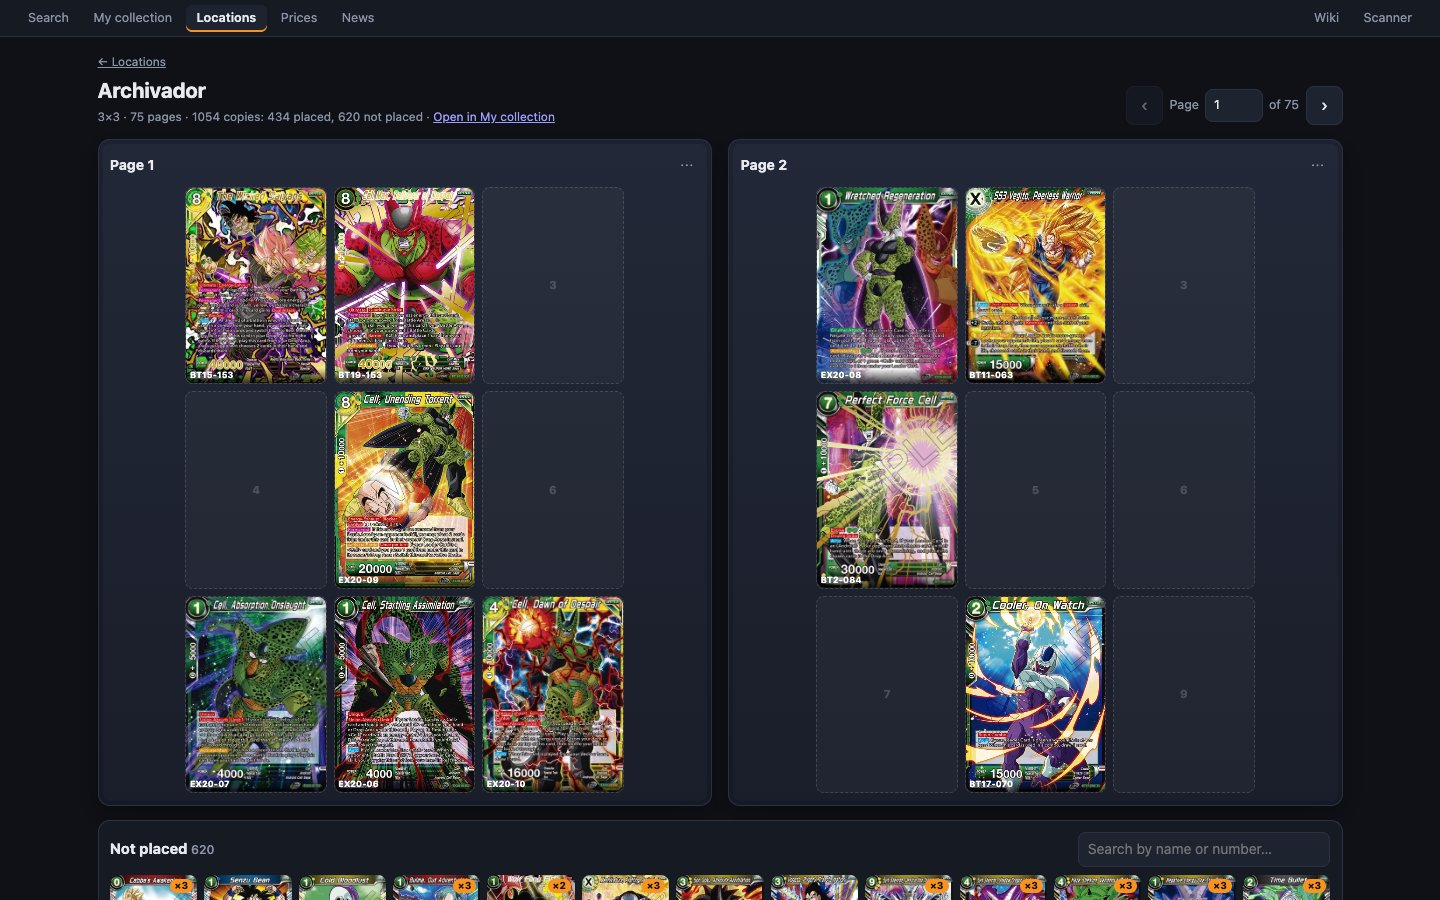
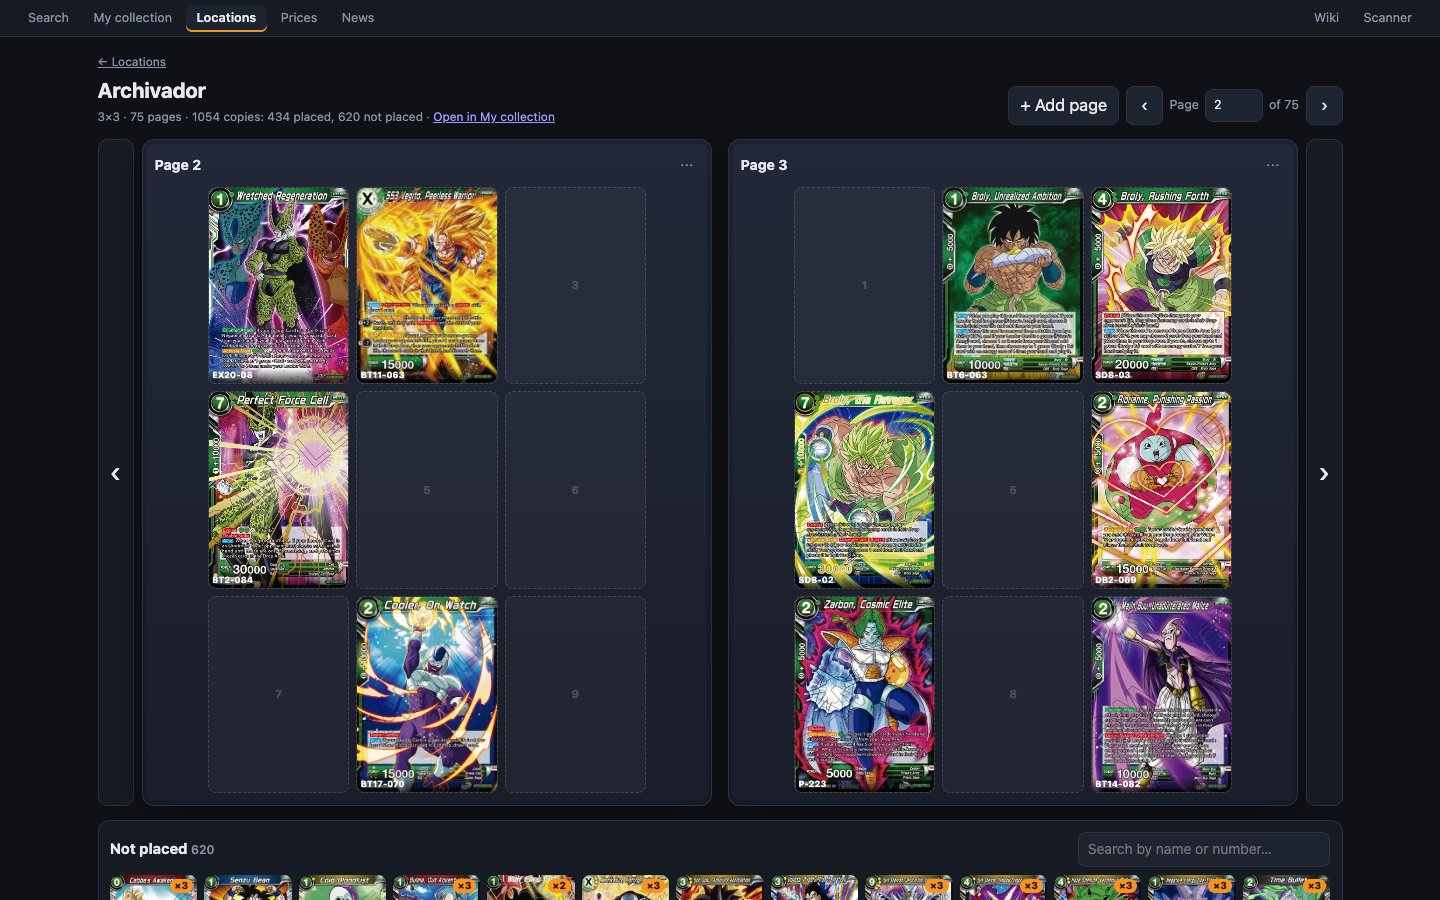
Vista de archivador: como un libro, flechas a los lados y «+ Add page»
En el ordenador la página 1 sale sola a la derecha (interior de la tapa a la
izquierda) y luego 2-3, 4-5…; flechas grandes a los lados para pasar páginas; y
«+ Add page» para meter una página vacía delante o detrás de la que elijas.

diff --git a/frontend/src/BinderPage.tsx b/frontend/src/BinderPage.tsx
@@ -68,10 +68,16 @@ export default function BinderPage() {
   }, [])
 
   const pages = data?.pages ?? 1
-  // En dos páginas, los pares empiezan siempre en impar (1-2, 3-4…), como un archivador abierto.
-  const start = perView === 2 ? Math.max(1, first - ((first - 1) % 2)) : first
-  const visible = Array.from({ length: perView }, (_, i) => start + i).filter((p) => p <= pages)
+  // En dos páginas, como un libro: la 1 sale sola a la derecha (a la izquierda, el interior de la tapa) y
+  // luego 2-3, 4-5…; si la última es par, sale sola a la izquierda. 0 o más allá de la última = hueco.
+  const left = perView === 2 ? first - (first % 2) : first
+  const spread = perView === 2 ? [left, left + 1] : [first]
+  const visible = spread.filter((p) => p >= 1 && p <= pages)
+  const start = visible[0] ?? 1
+  const canBack = perView === 2 ? left > 0 : first > 1
+  const canForward = spread[spread.length - 1] < pages
   const go = useCallback((delta: number) => setFirst((f) => Math.min(Math.max(1, f + delta * perView), pages)), [perView, pages])
+  const [adding, setAdding] = useState(false)
 
   useEffect(() => {
     const onKey = (e: KeyboardEvent) => {
@@ -145,7 +151,8 @@ export default function BinderPage() {
           </p>
         </div>
         <div className="binder-nav">
-          <button className="btn" onClick={() => go(-1)} disabled={start <= 1} aria-label="Previous pages">‹</button>
+          <button className="btn" onClick={() => setAdding((v) => !v)} aria-expanded={adding}>+ Add page</button>
+          <button className="btn" onClick={() => go(-1)} disabled={!canBack} aria-label="Previous pages">‹</button>
           <label className="binder-jump">
             Page
             <input
@@ -158,9 +165,21 @@ export default function BinderPage() {
             />
             of {pages}
           </label>
-          <button className="btn" onClick={() => go(1)} disabled={start + perView > pages} aria-label="Next pages">›</button>
+          <button className="btn" onClick={() => go(1)} disabled={!canForward} aria-label="Next pages">›</button>
         </div>
       </header>
+      {adding && (
+        <AddPage
+          pages={pages}
+          around={start}
+          onCancel={() => setAdding(false)}
+          onAdd={(at) => {
+            setAdding(false)
+            pageAction('insert-page', at)
+            setFirst(at)
+          }}
+        />
+      )}
 
       {selected && (
         <p className="binder-hint">
@@ -171,8 +190,14 @@ export default function BinderPage() {
       {error && <p className="error">{error}</p>}
 
       <DndContext sensors={sensors} onDragEnd={onDragEnd}>
-        <div className={`binder-spread pages-${visible.length}`}>
-          {visible.map((page) => (
+        <div className="binder-book">
+        <button className="binder-turn prev" onClick={() => go(-1)} disabled={!canBack} aria-label="Previous pages" title="Previous pages">‹</button>
+        <div className={`binder-spread pages-${spread.length}`}>
+          {spread.map((page) => page < 1 || page > pages ? (
+            <div key={`blank-${page}`} className="binder-sheet blank" aria-hidden="true">
+              <span>{page < 1 ? 'Inside cover' : 'End of the binder'}</span>
+            </div>
+          ) : (
             <BinderSheet
               key={page}
               page={page}
@@ -187,6 +212,8 @@ export default function BinderPage() {
               onAction={pageAction}
             />
           ))}
+        </div>
+        <button className="binder-turn next" onClick={() => go(1)} disabled={!canForward} aria-label="Next pages" title="Next pages">›</button>
         </div>
 
         <Tray selected={selected} canDropHere={!!selected && 'page' in selected} onTap={() => selected && 'page' in selected && move(selected, null)}>
@@ -364,5 +391,41 @@ function CardChip({
       {count != null && count > 1 && <span className="chip-count">×{count}</span>}
       <span className="chip-number">{card?.card_number}</span>
     </button>
+  )
+}
+
+/** Añadir una página vacía: delante o detrás de la que elijas. */
+function AddPage({ pages, around, onAdd, onCancel }: { pages: number; around: number; onAdd: (at: number) => void; onCancel: () => void }) {
+  const [page, setPage] = useState(around)
+  const [where, setWhere] = useState<'before' | 'after'>('after')
+  const ok = page >= 1 && page <= pages
+  return (
+    <form
+      className="binder-add-page"
+      onSubmit={(e) => {
+        e.preventDefault()
+        if (ok) onAdd(where === 'before' ? page : page + 1)
+      }}
+    >
+      <span>Add an empty page</span>
+      <span className="seg" role="radiogroup" aria-label="Before or after">
+        {(['before', 'after'] as const).map((w) => (
+          <button key={w} type="button" role="radio" aria-checked={where === w} className={where === w ? 'on' : ''} onClick={() => setWhere(w)}>
+            {w === 'before' ? 'Before' : 'After'}
+          </button>
+        ))}
+      </span>
+      <label>
+        page
+        <input className="input" type="number" min={1} max={pages} value={page} onChange={(e) => setPage(Number(e.target.value))} />
+      </label>
+      <span className="muted small">
+        {ok ? `It will be page ${where === 'before' ? page : page + 1}; the ones after it move up one.` : `Choose a page from 1 to ${pages}.`}
+      </span>
+      <span className="binder-add-actions">
+        <button type="button" className="btn" onClick={onCancel}>Cancel</button>
+        <button className="btn primary" disabled={!ok}>Add page</button>
+      </span>
+    </form>
   )
 }

diff --git a/frontend/src/index.css b/frontend/src/index.css
@@ -2032,3 +2032,29 @@ button.cd-tile-value:hover, .cd-tile-link:hover { color: var(--accent-2); text-d
 .deck-missing.below { top: calc(6px + 1.35rem); }
 .deck-card.part-owned img, .deck-card.not-owned img { outline: 2px dashed #8b5cf6; outline-offset: 2px; }
 .deck-card.not-owned img { opacity: 0.55; }
+/* Archivador como un libro: flechas a los lados para pasar páginas y huecos (interior de la tapa / final) */
+.binder-book { display: grid; grid-template-columns: auto minmax(0, 1fr) auto; align-items: center; gap: 0.6rem; }
+.binder-turn {
+  align-self: stretch; width: 2.6rem; border-radius: 10px; border: 1px solid var(--line); background: var(--bg-2);
+  color: var(--text); font-size: 2rem; line-height: 1; cursor: pointer; transition: background 0.15s ease, color 0.15s ease;
+}
+.binder-turn:hover:not(:disabled) { background: color-mix(in srgb, var(--accent) 18%, var(--bg-2)); color: var(--accent-2); }
+.binder-turn:disabled { opacity: 0.25; cursor: default; }
+.binder-sheet.blank {
+  display: grid; place-items: center; min-height: 12rem; align-self: stretch;
+  background: repeating-linear-gradient(135deg, rgba(255, 255, 255, 0.025) 0 12px, transparent 12px 24px), #161a24;
+  box-shadow: inset 0 0 0 4px rgba(0, 0, 0, 0.2);
+}
+.binder-sheet.blank span { color: var(--muted); font-size: 0.8rem; letter-spacing: 0.08em; text-transform: uppercase; opacity: 0.6; }
+.binder-add-page {
+  display: flex; flex-wrap: wrap; align-items: center; gap: 0.6rem 0.8rem; padding: 0.7rem 0.9rem; border-radius: 10px;
+  border: 1px solid var(--line); background: var(--bg-2);
+}
+.binder-add-page label { display: flex; align-items: center; gap: 0.4rem; color: var(--muted); }
+.binder-add-page .input { width: 4.2rem; }
+.binder-add-actions { display: flex; gap: 0.5rem; margin-left: auto; }
+@media (max-width: 640px) {
+  .binder-book { gap: 0.3rem; }
+  .binder-turn { width: 1.8rem; font-size: 1.5rem; border-radius: 8px; }
+  .binder-nav { flex-wrap: wrap; }
+}

diff --git a/scripts/wiki_screenshots.py b/scripts/wiki_screenshots.py
@@ -97,6 +97,9 @@ def shots():
         go(page, "/locations", 1500)
         page.locator(".loc-open-binder").first.click()
         page.wait_for_selector(".binder-sheet")
+        # La 1 sale sola (como un libro): se pasa a la 2-3 para que se vean dos páginas.
+        page.locator(".binder-turn.next").click()
+        page.mouse.move(0, 0)
         page.wait_for_timeout(2500)
         return None, False
 

diff --git a/frontend/wiki/es/ubicaciones.md b/frontend/wiki/es/ubicaciones.md
@@ -71,7 +71,9 @@ Cada archivador tiene **«📖 Open binder»** (abrir el archivador), que enseñ
 
 - **Las posiciones** son las notas de las copias, **«P. 12 · row 2 · col 3»** (las que escribe el [modo archivador](escaner.md#modo-archivador) del escáner; la antigua «Pág. 12 · fila 2 · col 3» también vale). Mover cartas aquí reescribe esas líneas; el resto del texto de la nota se conserva.
 - **«Not placed»** (sin colocar) es una bandeja con las copias que no tienen posición (o tienen una que no cabe en el archivador), con buscador.
-- **Pasar páginas:** **‹ ›**, la casilla del número de página o las teclas <kbd>←</kbd> <kbd>→</kbd>.
+- **Como un libro:** en el ordenador la página 1 se abre sola a la derecha (a la izquierda queda el interior de la tapa), y luego 2-3, 4-5… Si la última página es par, sale sola a la izquierda.
+- **Pasar páginas:** las flechas grandes **‹ ›** a los lados del archivador, las de arriba, la casilla del número de página o las teclas <kbd>←</kbd> <kbd>→</kbd>.
+- **«+ Add page»** (añadir página, arriba): eliges una página y si la nueva, vacía, va **«Before»** (delante) o **«After»** (detrás); las de detrás se corren una y la vista va a la página nueva.
 
 **Mover cartas:**
 - **Arrastrando** una carta a otro bolsillo. Si está ocupado, las dos cartas **se intercambian**. Arrastrarla a **«Not placed»** la saca de su bolsillo. Una carta de la bandeja soltada en un bolsillo ocupado manda la que había a la bandeja.

diff --git a/frontend/wiki/en/ubicaciones.md b/frontend/wiki/en/ubicaciones.md
@@ -71,7 +71,9 @@ Each binder has **📖 Open binder**, which shows its pages like a real binder: 
 
 - **Positions** are the copies' notes, **P. 12 · row 2 · col 3** (the ones the scanner's [binder mode](escaner.md#binder-mode) writes; the old “Pág. 12 · fila 2 · col 3” works too). Moving cards here rewrites those lines; any other text in the note is kept.
 - **Not placed** is a tray with the copies that have no position (or one that doesn't fit the binder), with a search box.
-- **Pages:** **‹ ›**, the page number box or the <kbd>←</kbd> <kbd>→</kbd> keys.
+- **Like a book:** on a computer page 1 opens on its own on the right (the inside cover is on the left), then 2-3, 4-5… If the last page is even, it shows alone on the left.
+- **Turning pages:** the big **‹ ›** arrows on both sides of the binder, the ones at the top, the page number box or the <kbd>←</kbd> <kbd>→</kbd> keys.
+- **+ Add page** (at the top): choose a page and whether the new empty page goes **Before** or **After** it; the pages behind move one place and the view goes to the new page.
 
 **Moving cards:**
 - **Drag** a card to another pocket. If the pocket is taken, the two cards **swap**. Dragging it to **Not placed** takes it out of its pocket. A card from the tray dropped on a taken pocket sends that one to the tray.
